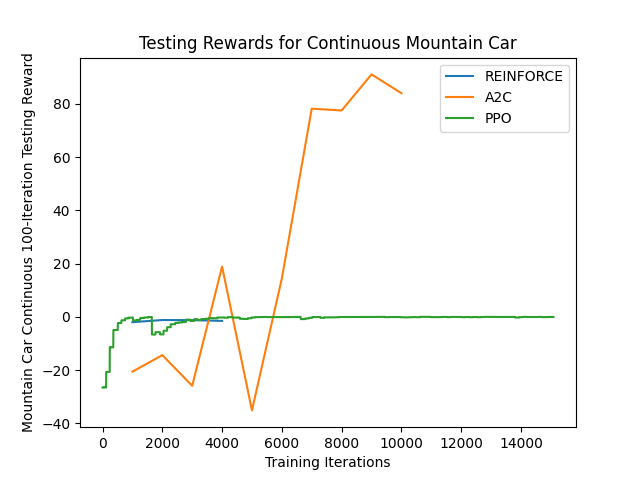
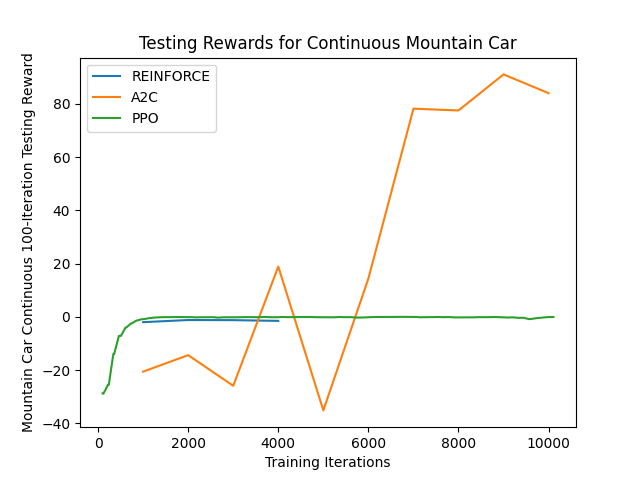
Updated mcc testing plot

diff --git a/project/results/plot_mcc.py b/project/results/plot_mcc.py
@@ -4,20 +4,30 @@ import pandas as pd
 import pickle
 import matplotlib.pyplot as plt
 import numpy as np
-import ipdb
 
 # Read in our test data
 reinforce = pd.read_csv('./ReinforceTEST-2020.12.08.10.50.57/4000_test_metrics.csv')
 actor_critic = pd.read_csv('./ContinuousMountainClimber-v0_actor_critic_2020.12.05.10.38.28/10000_test_metrics.csv')
-with open('./MountainCarContinuous_PPO_Results_pkl_15104.data', 'rb') as f:
-    ppo = pickle.load(f)
-ppo = np.repeat(ppo[3], 30)
+with open('./MountainCarContinuous_PPO_Results_pkl_10112.data', 'rb') as f:
+    ppo3 = pickle.load(f)
+ppo3 = ppo3[3]
+
+ppo = []
+for l in ppo3:
+   for item in l:
+       ppo.append(item)
+
+ppo = np.array(ppo)
+ppo_means = []
+
+for i in range(1,ppo.shape[0]):
+    ppo_means.append(np.mean(ppo[i-100:i]))
 
 # Plot test data
 plt.figure()
 plt.plot(reinforce.episode, reinforce.test_reward_average_last_100)
 plt.plot(actor_critic.episode, actor_critic.test_reward_average_last_100)
-plt.plot(range(len(ppo)), ppo)
+plt.plot(range(len(ppo_means)), ppo_means)
 plt.xlabel('Training Iterations')
 plt.ylabel('Mountain Car Continuous 100-Iteration Testing Reward')
 plt.title('Testing Rewards for Continuous Mountain Car')
